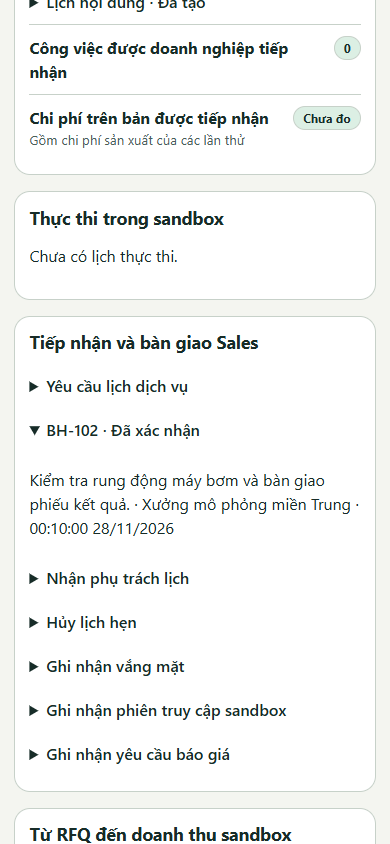
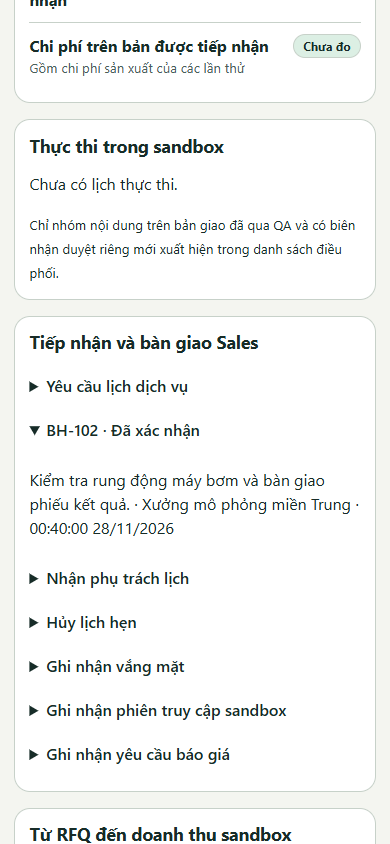
Enforce service assignee and preserve measured coverage for scoped channel dispatch

diff --git a/app/static/campaign-operations.js b/app/static/campaign-operations.js
@@ -1,12 +1,15 @@
 /* Render from scoped API receipts. Controls reuse the campaign's revision and retry handling. */
 function campaignOperationForms({plan,production,ops,actions,sales,add,details,field,pick,command,sandbox,actor}) {
-  const groupFor = {landing:'copy',seo:'seo',strategy:'client_strategy',measurement:'client_measurement'};
+  const groupFor = {landing:'copy',seo:'seo',strategy:'client_strategy',measurement:'client_measurement',
+    ad:'ad',social:'social',calendar:'calendar',creative_brief:'creative_brief'};
   const options = [];
   for (const asset of production.assets) {
     const group=groupFor[asset.kind];
     if (!group || !asset.approval_receipt || !['approved','shared'].includes(asset.status)) continue;
-    const routes=group==='copy'?[['website','sandbox_page','render_preview','Trang web'],['paid_media','sandbox_ad_slot','rehearse_placement','Vị trí quảng cáo']]:
-      group==='seo'?[['organic_search','sandbox_search','render_preview','Kết quả tìm kiếm']]:[['internal','sandbox_review','render_preview','Duyệt nội bộ']];
+    const placement=['paid_media','sandbox_ad_slot','rehearse_placement','Vị trí quảng cáo'];
+    const routes=({copy:[['website','sandbox_page','render_preview','Trang web'],placement],ad:[placement],
+      seo:[['organic_search','sandbox_search','render_preview','Kết quả tìm kiếm']],
+      social:[['organic_social','sandbox_social','render_preview','Mạng xã hội']]})[group]||[['internal','sandbox_review','render_preview','Duyệt nội bộ']];
     for (const [channel,destination,action_type,name] of routes) options.push({asset,group,channel,destination,action_type,name});
   }
   if (options.length) {
@@ -21,6 +24,7 @@ function campaignOperationForms({plan,production,ops,actions,sales,add,details,f
         target:{contract:'sandbox-capability/1',action_type:o.action_type,channel:o.channel,destination:o.destination,group:o.group,group_digest:o.asset.digest,mode:mode.value}});
     },{form:true});
   }
+  if(production.assets.some(asset=>!asset.approval_receipt))add(actions,'small','Chỉ nhóm nội dung trên bản giao đã qua QA và có biên nhận duyệt riêng mới xuất hiện trong danh sách điều phối.');
   if (plan.buyer_action==='appointment' && plan.selling_unit) {
     const f=add(details(sales,'Yêu cầu lịch dịch vụ'),'form');
     const id=field(f,'Mã lịch hẹn','text'), qty=field(f,'Số lượng ('+plan.selling_unit+')','number','1'),
@@ -38,6 +42,7 @@ function campaignOperationForms({plan,production,ops,actions,sales,add,details,f
     for(const h of row.history) if(h.feedback)add(box,'p',h.feedback);
     const next={requested:['confirm','cancel'],confirmed:['assign','cancel','no_show'],assigned:['complete','cancel','no_show']}[row.state]||[];
     for(const step of next){
+      if(step==='complete' && row.assignee_id!==actor)continue;
       const label={confirm:'Xác nhận lịch hẹn',assign:'Nhận phụ trách lịch',complete:'Hoàn thành dịch vụ',cancel:'Hủy lịch hẹn',no_show:'Ghi nhận vắng mặt'}[step];
       const f=add(details(box,label),'form');
       const when=step==='confirm'?field(f,'Giờ hẹn đã thống nhất','datetime-local'):null;

diff --git a/app/static/campaign-engine.js b/app/static/campaign-engine.js
@@ -148,7 +148,9 @@ function createCampaignEngine(api) {
       if(u.artifact_digest)add(unit,'small','SHA-256 · '+u.artifact_digest);
       if(u.acceptance)add(unit,'p','Biên nhận '+u.acceptance.share_receipt+' · '+label(u.acceptance.status));
       if(u.cost_coverage){
-        add(unit,'p','Lượt thực hiện có nhật ký: '+u.cost_coverage.attempts.length+' · Token đầu vào/ra: '+u.cost_coverage.observed_input_tokens+'/'+u.cost_coverage.observed_output_tokens);
+        const c=u.cost_coverage;
+        add(unit,'p','Token đã ghi nhận (vào/ra): '+(c.observed_input_tokens??'chưa đo')+' / '+(c.observed_output_tokens??'chưa đo')+
+          ' · Lượt đủ số đo: '+c.fully_metered_attempts+'/'+c.attempts.length);
         const missing={model:'phí model',compute:'tài nguyên máy',tools:'công cụ',human:'nhân công',unfinished_work:'công việc đang mở',
           attempt_inventory:'nhật ký lượt chạy',unmeasured_attempts:'số liệu của lượt chạy'};
         add(unit,'small',u.cost_coverage.missing.length?'Cần đối soát: '+u.cost_coverage.missing.map(k=>missing[k]||k).join(', '):
@@ -189,7 +191,8 @@ function createCampaignEngine(api) {
     const actions=card(grid,'Thực thi trong sandbox');
     for(const action of ops.actions){
       const row=line(actions,action.id,money(action.cost_vnd)+' · '+(action.due_at || ''),label(action.state));
-      if(action.target)add(row,'small',action.target.channel+' · '+action.target.group+' · '+action.target.destination+' · '+(action.execution_mode==='scheduled'?'Điều phối cục bộ':'Thủ công'));
+      if(action.target)add(row,'small',action.target.channel+' · '+action.target.group+' · '+action.target.destination+' · '+(action.execution_mode==='scheduled'?'Bộ điều phối CLI cục bộ':'Thực thi nhóm bằng tay'));
+      else add(row,'small','Tài liệu đã qua QA · thao tác sandbox thủ công');
       if(action.sandbox_output)add(row,'small','Biên nhận '+action.execution_receipt+' · '+action.sandbox_output.content_sha256.slice(0,12));
       const next=({scheduled:[['authorize','Cho phép chạy'],['cancel','Hủy lịch']],authorized:[['execute','Chạy mô phỏng'],['cancel','Hủy']],
         failed:[['execute','Thử lại'],['cancel','Hủy']]})[action.state]||[];

diff --git a/app/campaign_operations_cost.py b/app/campaign_operations_cost.py
@@ -9,6 +9,16 @@ from .knowledge_store import canonical, conflict, digest
 CATEGORIES = {"model", "compute", "tools", "human"}
 
 
+def token_totals(attempts):
+    # An absent meter reading differs from the integer zero reported by a meter.
+    inputs = [a["input_tokens"] for a in attempts if a["input_tokens"] is not None]
+    outputs = [a["output_tokens"] for a in attempts if a["output_tokens"] is not None]
+    fully_metered = sum(a["input_tokens"] is not None and a["output_tokens"] is not None for a in attempts)
+    return {"reported_input_attempts":len(inputs), "reported_output_attempts":len(outputs),
+            "fully_metered_attempts":fully_metered,"unmeasured_token_attempts":len(attempts)-fully_metered,
+            "observed_input_tokens":sum(inputs) if inputs else None,"observed_output_tokens":sum(outputs) if outputs else None}
+
+
 def inventory(unit):
     attempts = [{k:j.get(k) for k in ("skill","node_id","attempt","model","provider","started_at","finished_at","outcome",
                                       "input_tokens","output_tokens","estimated_microusd")} for j in unit.get("worker_journal", [])]
@@ -23,9 +33,7 @@ def inventory(unit):
                 "run":unit.get("run_id"), "queue":unit.get("queue_receipt"), "attempts":attempts, "labor":unit["labor"],
                 "artifact_revision":unit.get("artifact_revision"),"artifact_digest":unit.get("artifact_digest"),
                 "acceptance":unit.get("acceptance"),"cost_statement":unit.get("cost_statement")}
-    return {"digest":digest(canonical(coverage)), "attempts":attempts, "missing":missing,
-            "observed_input_tokens":sum(a["input_tokens"] for a in attempts if a["input_tokens"] is not None),
-            "observed_output_tokens":sum(a["output_tokens"] for a in attempts if a["output_tokens"] is not None),
+    return {"digest":digest(canonical(coverage)), "attempts":attempts, "missing":missing, **token_totals(attempts),
             "manual_baseline_seconds":(unit.get("cost_statement") or {}).get("manual_baseline_seconds")}
 
 
@@ -52,7 +60,8 @@ def verify(cmd, unit, rows):
 
 
 def summarize(units):
-    actual_runs = {}
+    actual_runs = set()
+    observations = {}
     complete = bool(units)
     total = 0
     for unit in units:
@@ -67,10 +76,19 @@ def summarize(units):
         coverage["verified_vnd"] = meter["total_vnd"] if ok else None
         unit["cost_coverage"] = coverage
         if unit.get("run_id"):
-            actual_runs[unit["run_id"]] = coverage
+            actual_runs.add(unit["run_id"])
+            for a in coverage["attempts"]:
+                identity = (unit["run_id"],a["node_id"],a["skill"],a["attempt"],a["started_at"])
+                # Several groups can cite the same run. Merge individual readings once; an empty later
+                # inventory, including that of a composed sibling, cannot erase observed worker calls.
+                readings = observations.setdefault(identity, {"input_tokens":set(),"output_tokens":set()})
+                for metric in readings:
+                    if a[metric] is not None:
+                        readings[metric].add(a[metric])
+    attempts = [{k:next(iter(v)) if len(v)==1 else None for k,v in readings.items()} for readings in observations.values()]
+    conflicts = sum(any(len(v)>1 for v in readings.values()) for readings in observations.values())
+    complete = complete and not conflicts
     accepted = sum((u.get("acceptance") or {}).get("status") == "business_accepted" for u in units)
     return {"cost_status":"all_units_costed" if complete else "unmeasured_complete_production_cost",
             "cost_per_business_accepted_vnd":total / accepted if complete and accepted else None,
-            "observed_runs":len(actual_runs),"observed_attempts":sum(len(c["attempts"]) for c in actual_runs.values()),
-            "observed_input_tokens":sum(c["observed_input_tokens"] for c in actual_runs.values()),
-            "observed_output_tokens":sum(c["observed_output_tokens"] for c in actual_runs.values())}
+            "observed_runs":len(actual_runs),"observed_attempts":len(attempts),"conflicting_token_attempts":conflicts,**token_totals(attempts)}

diff --git a/tests/test_department_dispatch_integration.py b/tests/test_department_dispatch_integration.py
@@ -1,0 +1,70 @@
+"""Exercise the optional Content Factory writer on the combined development build."""
+from datetime import timedelta
+import json
+import os
+from pathlib import Path
+from uuid import uuid4
+
+import pytest
+
+from app import c3_assets
+from app.models import utcnow
+from knowledge_fixtures import accepted
+from test_claim_desk import reader
+from test_registry import PG, pool as registry_pool
+from test_studio_postgres import agency_draft
+
+pool = registry_pool
+
+
+@PG
+def test_dispatch_reviewed_channel_editions(pool):
+    pytest.importorskip("app.campaign_channels", reason="The optional C3 v5 Content Factory writer is required")
+    from test_channel_editions import commission, lifecycle
+
+    base, owner, buyer, _, cid = pool.cases[0]
+    api = pool.api
+    plan = {}
+
+    def before(snap, *_):
+        plan.update(commission(api, base, owner, cid, snap))
+
+    doc, _, snap = agency_draft(pool, c3_assets.LANDING, rfq=True, before_queue=before)
+    editor, approver = reader(api, owner, "editor"), reader(api, owner, "admin")
+    root = base + "/campaigns/" + cid
+    evidence = []
+
+    def command(kind, actor, **payload):
+        return api.post(root + "/sandbox/commands", headers=actor["headers"],
+                        json={"kind": kind, "request_id": uuid4().hex, "plan_id": plan["id"], **payload})
+
+    def inspect(_owner, _buyer, did, _shared, approved):
+        rows = accepted(api.get(root + "/engine/plans/" + approved["id"] + "/production", headers=owner["headers"]))
+        for group, channel, destination, action_type in (
+            ("ad", "paid_media", "sandbox_ad_slot", "rehearse_placement"),
+            ("social", "organic_social", "sandbox_social", "render_preview"),
+            ("creative_brief", "internal", "sandbox_review", "render_preview"),
+            ("calendar", "internal", "sandbox_review", "render_preview"),
+        ):
+            asset, = [a for a in rows["assets"] if a["kind"] == group]
+            target = {"contract": "sandbox-capability/1", "mode": "manual", "group": group,
+                      "channel": channel, "destination": destination, "group_digest": asset["digest"], "action_type": action_type}
+            args = {"action_id": "channel-" + group, "deliverable_id": did, "expected_revision": asset["revision"],
+                    "expected_digest": asset["document_digest"], "due_at": (utcnow() - timedelta(seconds=1)).isoformat(), "cost_vnd": 0}
+            assert command("schedule", owner, **args, target=target | {"group_digest": "0"*64}).status_code == 409
+            scheduled = accepted(command("schedule", owner, **args, target=target))
+            auth = accepted(command("authorize", approver, action_id=args["action_id"]))
+            done = accepted(command("execute", owner, action_id=args["action_id"]))
+            output = done["value"]["sandbox_output"]
+            assert output["fields"] == asset["fields"] and output["external_writes"] == 0
+            assert done["value"]["target"]["approval_receipt"] == asset["approval_receipt"]
+            evidence.append({"group": group, "destination": destination, "asset_digest": asset["digest"],
+                             "scheduled": scheduled["id"], "authorized": auth["id"], "executed": done["id"],
+                             "plan_digest": approved["digest"], "external_writes": output["external_writes"]})
+
+    lifecycle(api, base, owner, buyer, pool.cases[1][2], doc, snap, plan, editor, observe=inspect)
+    assert len(evidence) == 4
+    if directory := os.getenv("AMC_DEPT_OPS_EVIDENCE"):
+        path = Path(directory)
+        path.mkdir(exist_ok=True, parents=True)
+        (path / "channel-dispatch.json").write_text(json.dumps(evidence, indent=2) + "\n", encoding="utf-8")

diff --git a/app/campaign_operations_capabilities.py b/app/campaign_operations_capabilities.py
@@ -7,29 +7,42 @@ from .knowledge_store import canonical, conflict, digest
 CAPABILITIES = {
     ("render_preview","website","sandbox_page"): {"copy"},
     ("render_preview","organic_search","sandbox_search"): {"seo"},
-    ("render_preview","internal","sandbox_review"): {"client_strategy","client_measurement"},
-    ("rehearse_placement","paid_media","sandbox_ad_slot"): {"copy"},
+    ("render_preview","internal","sandbox_review"): {"client_strategy","client_measurement","creative_brief","calendar"},
+    ("render_preview","organic_social","sandbox_social"): {"social"},
+    ("rehearse_placement","paid_media","sandbox_ad_slot"): {"copy","ad"},
 }
 
 
-def bind(db, doc, target):
+def projection(store,doc):
+    studio = doc.content.get("studio") or {}
+    run = c3_boundaries.run_for(store.db,doc)
+    workflow = run.knowledge["registry"]["workflow"]
+    if studio.get("delivery_version") == c3_customer_assets.VERSION:
+        return run, c3_customer_assets.project(workflow,studio["groups"])
+    channels = getattr(c3_customer_assets,"campaign_channels",None)
+    if channels and studio.get("delivery_version")==channels.VERSION:
+        channels.require_current(store,doc,run)
+        return run, c3_customer_assets.project(workflow,studio["groups"],studio["channel_context"])
+    conflict("This customer delivery contract does not provide authorized sandbox asset groups")
+
+
+def bind(store, doc, target):
     if target.group not in CAPABILITIES.get((target.action_type,target.channel,target.destination),set()):
         conflict("This action, channel and group do not have the requested local capability")
-    studio = doc.content.get("studio") or {}
-    if studio.get("delivery_version") != c3_customer_assets.VERSION or target.group not in studio["groups"]:
-        conflict("This document has no reviewed customer asset group for the selected capability")
-    run = c3_boundaries.run_for(db,doc)
-    fields = c3_customer_assets.project(run.knowledge["registry"]["workflow"],studio["groups"])[target.group]
+    run, visible = projection(store,doc)
+    if target.group not in visible:
+        conflict("This customer edition does not contain the requested public asset group")
+    fields = visible[target.group]
     sig = asset_digest(doc,run,target.group,fields)
-    approvals = signoffs(db,doc,run,lock_reviewers=True)
+    approvals = signoffs(store.db,doc,run,lock_reviewers=True)
     if sig != target.group_digest or target.group not in approvals:
         conflict("The exact asset group needs a current independent approval")
     contract = target.model_dump() | {"approval_receipt":approvals[target.group]["receipt"], "run_id":run.id}
     return contract | {"capability_digest":digest(canonical(contract))}
 
 
-def perform(db,doc,target):
-    run = c3_boundaries.run_for(db,doc)
-    fields = c3_customer_assets.project(run.knowledge["registry"]["workflow"],doc.content["studio"]["groups"])[target["group"]]
+def perform(store,doc,target):
+    _, visible = projection(store,doc)
+    fields = visible[target["group"]]
     return {"type":target["action_type"],"destination":target["destination"],"group":target["group"],"fields":fields,
             "group_digest":target["group_digest"],"content_sha256":digest(canonical(fields)),"external_writes":0}

diff --git a/tests/test_campaign_appointments.py b/tests/test_campaign_appointments.py
@@ -51,6 +51,7 @@ def test_service_results_do_not_count_as_quotes_or_revenue(api,agency,monkeypatc
     decide("pump-001","confirm",1,1,confirmed_for=t(3))
     decide("pump-001","assign",2,2,assignee_id=other["id"],status=409)
     decide("pump-001","assign",2,2,assignee_id=staff["id"])
+    decide("pump-001","complete",3,4,actor=owner,feedback="Unassigned owner",status=409)
     decide("pump-001","no_show",3,2,feedback="Premature",status=409)
     decide("pump-001","complete",3,4,actor=staff,feedback="Đã kiểm tra hai máy và bàn giao phiếu kiểm tra.")
     send("appointment",**(req|{"appointment_id":"pump-002"}))
@@ -92,3 +93,28 @@ def test_service_results_do_not_count_as_quotes_or_revenue(api,agency,monkeypatc
             "revenue_vnd":view["report"]["confirmed_revenue_vnd"],"receipt_ids":[r["id"] for r in view["receipts"] if r["kind"].startswith("appointment")],
             "cost_measurement":{"observed_baseline_seconds":60,"synthetic_signed_allocation_vnd":6,"subsequent_cost_state":"Missing fresh evidence",
                                 "business_accepted_units":0,"cost_per_business_accepted_vnd":None}})
+
+
+def test_attempt_coverage_is_unknown_without_readings_and_deduplicates_shared_runs():
+    from app.campaign_operations_cost import summarize
+    common={"scope":{},"status":"incomplete","plan_id":"plan","run_id":"shared","labor":[],"acceptance":None}
+    unknown={"skill":"director","node_id":"d","attempt":1,"started_at":"a","finished_at":"b","outcome":"provider_timeout"}
+    zero={"skill":"content","node_id":"c","attempt":1,"started_at":"c","finished_at":"d","outcome":"ok","input_tokens":0,"output_tokens":0}
+    partial={"skill":"seo","node_id":"s","attempt":1,"started_at":"e","finished_at":"f","outcome":"failed","input_tokens":25}
+    empty=common|{"id":"social","worker_journal":[]}
+    failed=common|{"id":"landing","worker_journal":[unknown]}
+    result=summarize([failed,empty])
+    assert result["observed_attempts"]==result["unmeasured_token_attempts"]==1
+    assert result["observed_input_tokens"] is None and result["observed_output_tokens"] is None
+    assert "unmeasured_attempts" in failed["cost_coverage"]["missing"]
+    full=common|{"id":"copy","worker_journal":[unknown,zero,partial]}
+    mirror=common|{"id":"seo","worker_journal":[zero,partial]}
+    for units in ([full,mirror,empty],[empty,mirror,full]):
+        result=summarize(units)
+        assert result["observed_runs"]==1 and result["observed_attempts"]==3
+        assert result["fully_metered_attempts"]==1 and result["unmeasured_token_attempts"]==2
+        assert result["observed_input_tokens"]==25 and result["observed_output_tokens"]==0
+    mismatch=common|{"id":"other","worker_journal":[zero|{"input_tokens":999}]}
+    result=summarize([mirror,mismatch])
+    assert result["conflicting_token_attempts"]==1 and result["observed_input_tokens"]==25
+    assert result["cost_per_business_accepted_vnd"] is None

diff --git a/app/campaign_operations.py b/app/campaign_operations.py
@@ -147,7 +147,7 @@ def action_command(cmd, state, plan, store, user, cid, *, dispatched=False):
         if cmd.action_id in actions:
             conflict("Action ID already commissioned")
         doc = current_asset(store, user, cid, plan, cmd.deliverable_id, cmd.expected_revision, cmd.expected_digest, gate=False)
-        target = capabilities.bind(store.db, doc, cmd.target) if cmd.target else None
+        target = capabilities.bind(store, doc, cmd.target) if cmd.target else None
         return "actions", cmd.action_id, {"id": cmd.action_id, "plan_id": plan["id"], "plan_digest": plan["digest"],
                 "deliverable_id": cmd.deliverable_id, "asset_revision": cmd.expected_revision, "asset_digest": cmd.expected_digest,
                 "cost_vnd": cmd.cost_vnd, "due_at": stamp(cmd.due_at), "state": "scheduled", "scheduled_by": user.id,
@@ -166,7 +166,7 @@ def action_command(cmd, state, plan, store, user, cid, *, dispatched=False):
     target = row.get("target")
     if target:
         typed = ActionTarget.model_validate({k:target[k] for k in ActionTarget.model_fields})
-        if capabilities.bind(store.db,doc,typed) != target:
+        if capabilities.bind(store,doc,typed) != target:
             conflict("Scheduled capability or its group approval changed")
     if cmd.kind == "authorize":
         if row["state"] != "scheduled" or not store.approver or row["scheduled_by"] == user.id:
@@ -186,7 +186,7 @@ def action_command(cmd, state, plan, store, user, cid, *, dispatched=False):
             row.update(state="executed", execution_receipt=new_id(), executed_at=stamp(store.now()),
                        executed_via="local_dispatcher" if dispatched else "manual_sandbox")
             if target:
-                row["sandbox_output"] = capabilities.perform(store.db,doc,target)
+                row["sandbox_output"] = capabilities.perform(store,doc,target)
     # The scope lock serializes budget reservations. Old revisions cannot run, but completed spend survives every replan.
     committed = sum(a["cost_vnd"] for a in actions.values() if a["id"] != row["id"] and
                     (a["state"] == "executed" or (a["plan_id"] == cmd.plan_id and a["state"] in {"authorized", "failed"})))

diff --git a/app/campaign_operations_contracts.py b/app/campaign_operations_contracts.py
@@ -21,9 +21,9 @@ class Command(Input):
 class ActionTarget(Input):
     contract: Literal["sandbox-capability/1"]
     action_type: Literal["render_preview", "rehearse_placement"]
-    channel: Literal["website", "organic_search", "paid_media", "internal"]
-    destination: Literal["sandbox_page", "sandbox_search", "sandbox_ad_slot", "sandbox_review"]
-    group: Literal["copy", "seo", "client_strategy", "client_measurement"]
+    channel: Literal["website", "organic_search", "organic_social", "paid_media", "internal"]
+    destination: Literal["sandbox_page", "sandbox_search", "sandbox_social", "sandbox_ad_slot", "sandbox_review"]
+    group: Literal["copy", "seo", "client_strategy", "client_measurement", "social", "ad", "creative_brief", "calendar"]
     group_digest: Annotated[str, Field(pattern=r"^[a-f0-9]{64}$")]
     mode: Literal["manual", "scheduled"]
 

diff --git a/app/campaign_operations_appointments.py b/app/campaign_operations_appointments.py
@@ -30,6 +30,8 @@ def appointment(cmd, state, plan, store):
         allowed, next_state = TRANSITIONS[cmd.step]
         if prior["state"] not in allowed or occurred < parse_time(prior["last_event_at"]):
             conflict("Invalid appointment transition or time")
+        if cmd.step == "complete" and prior["assignee_id"] != store.actor:
+            conflict("Only the assigned staff member may confirm the service they performed")
         if bool(cmd.assignee_id) != (cmd.step == "assign") or bool(cmd.confirmed_for) != (cmd.step == "confirm"):
             conflict("Use assignment and confirmed time only on their corresponding steps")
         row = {**prior,"state":next_state,"revision":prior["revision"]+1}
